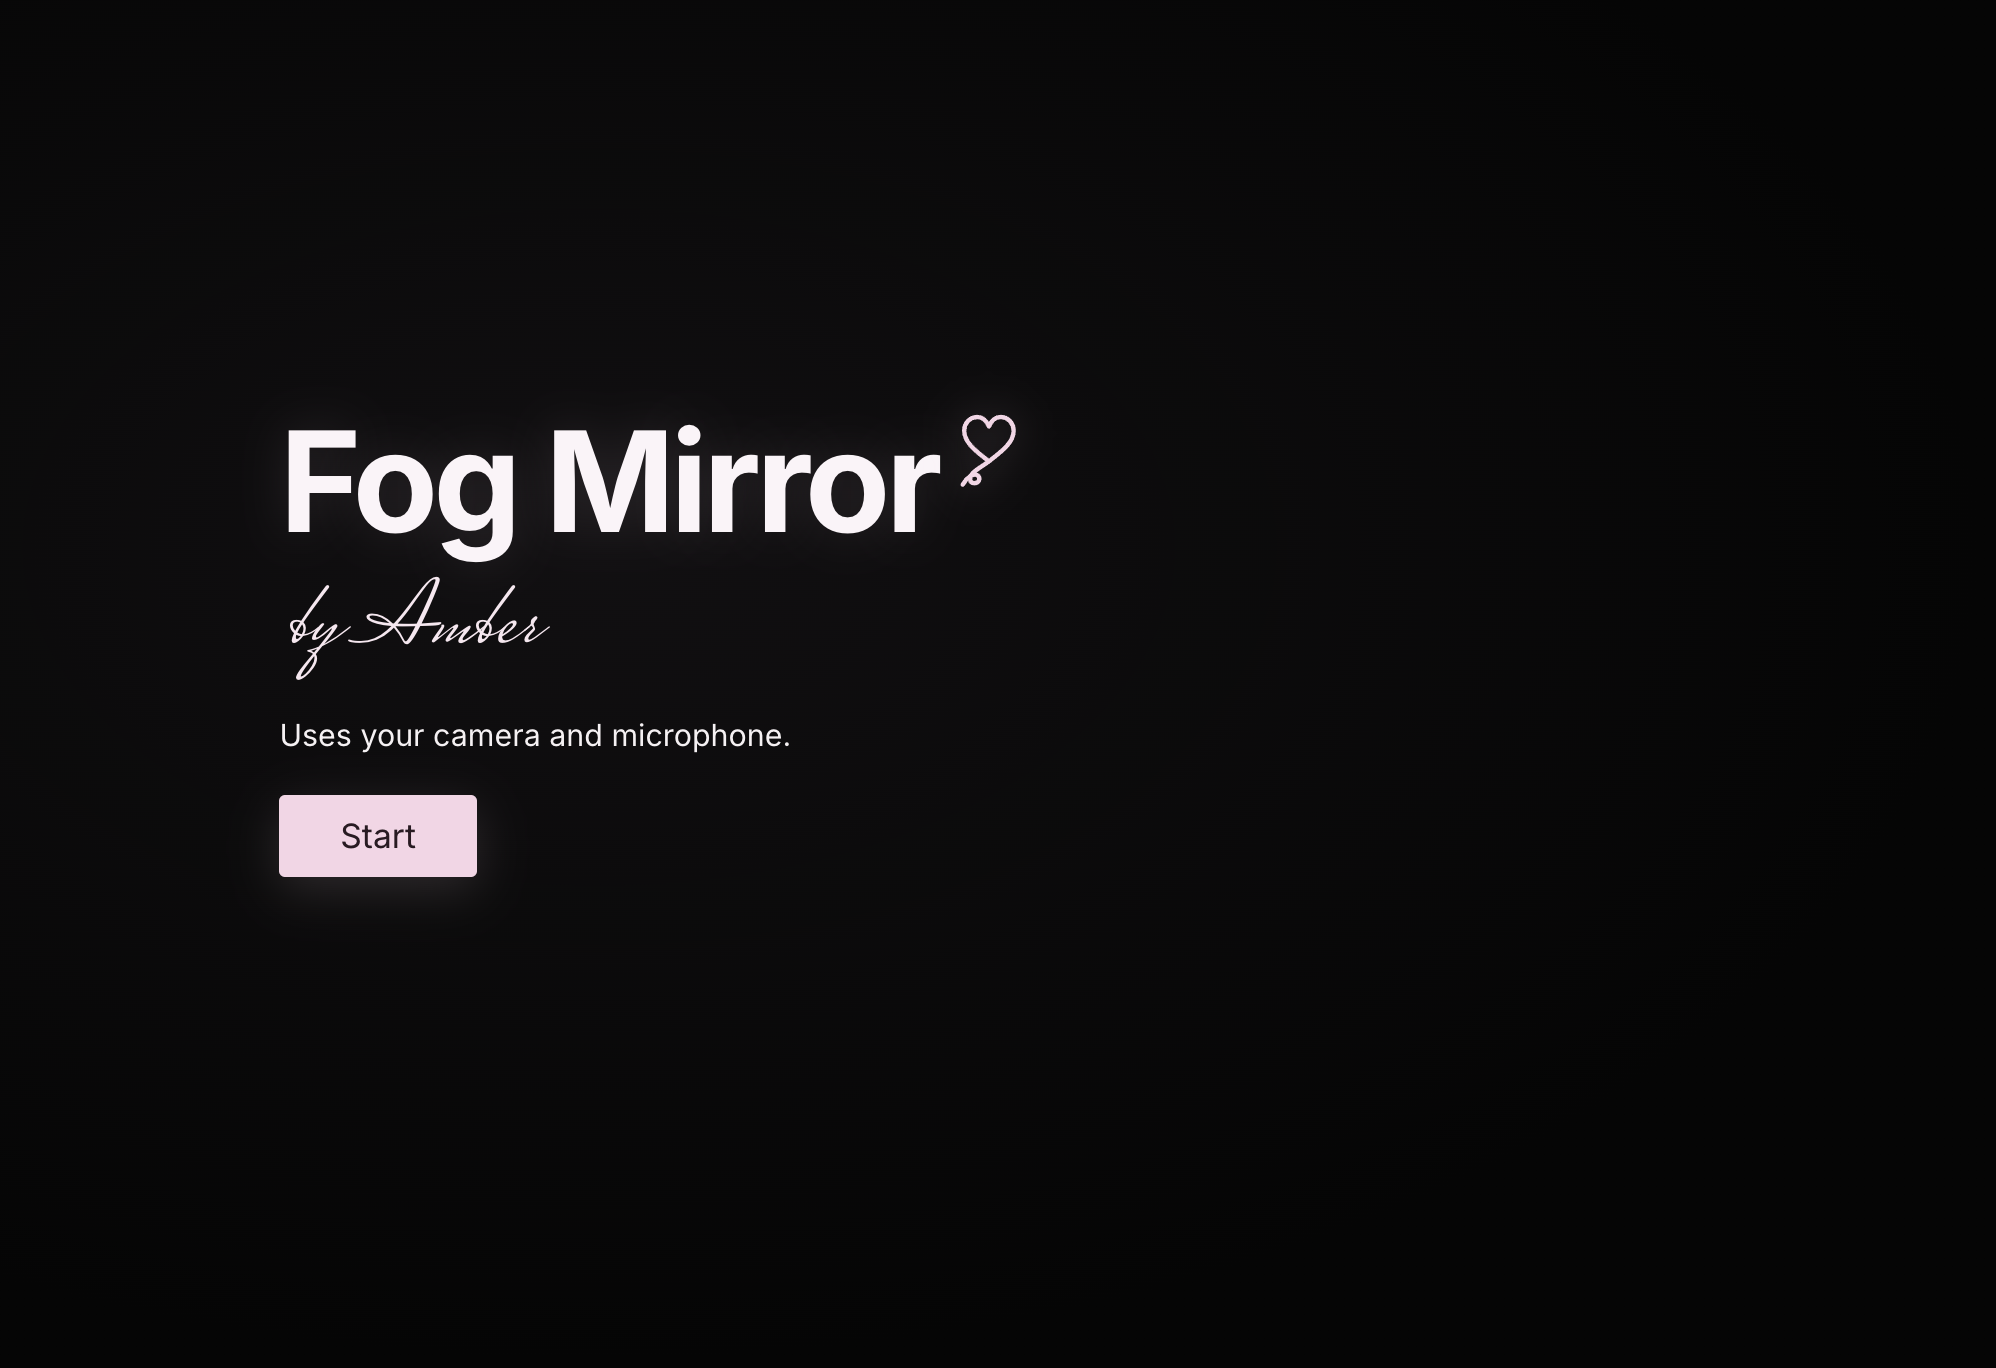
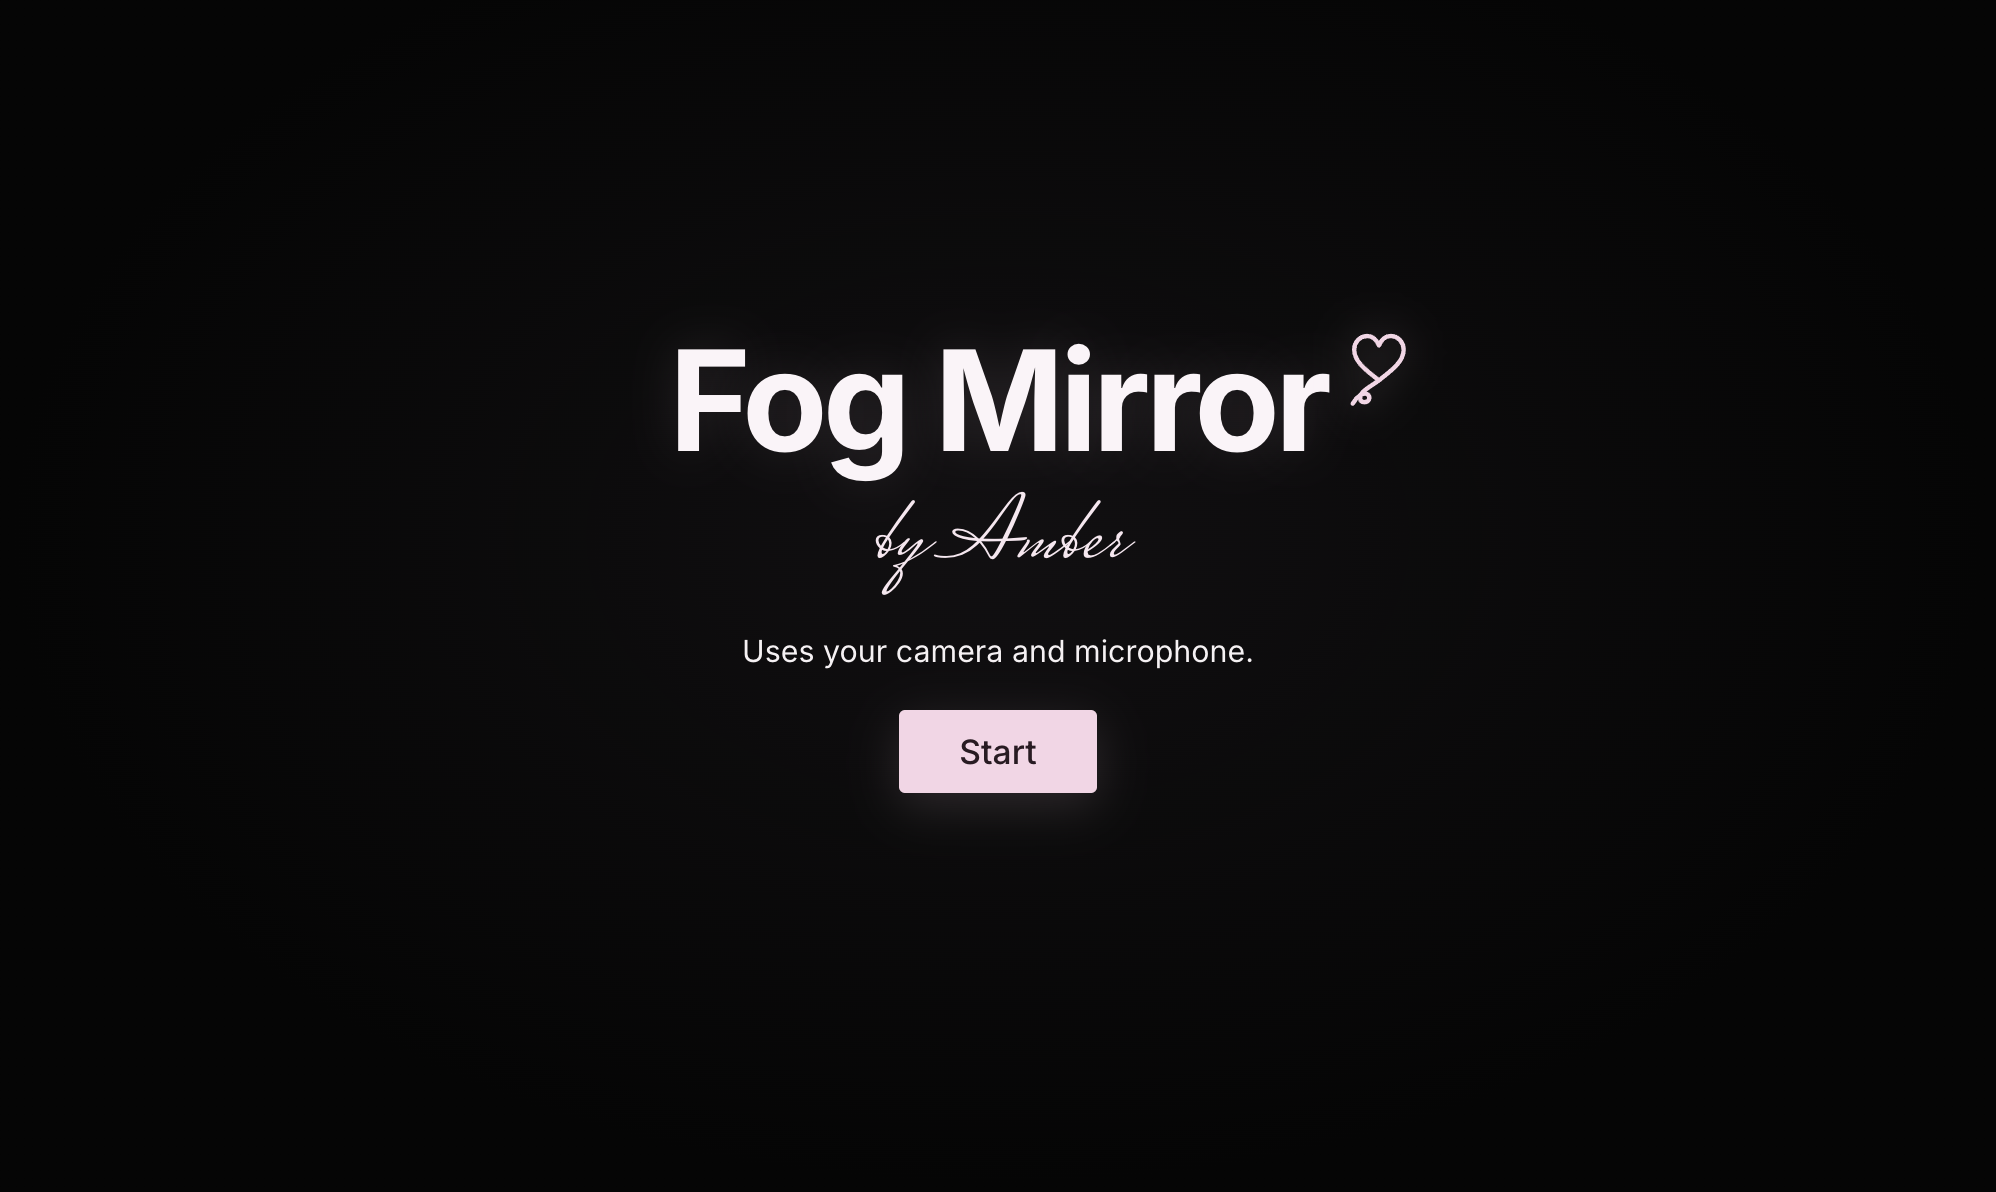
Use updated landing screenshot in README.

Changed region(s): [[0.1242, 0.2794, 0.7144, 0.4966], [0.1242, 0.5277, 0.6212, 0.6518], [0.4349, 0.5898, 0.5591, 0.6829]]

diff --git a/README.md b/README.md
@@ -7,7 +7,7 @@
 
 An interactive web app that turns your webcam into a fogged-up mirror. Draw through the fog with your fingers, wipe it away with your fist, and blow to fog it back up.
 
-![Fog Mirror landing page](docs/landing.png)
+![Fog Mirror start screen](docs/landing.png)
 
 ## Try it
 
@@ -28,6 +28,7 @@ No download or setup needed.
 
 - Use the **Brush** slider at the bottom to make your lines thicker or thinner.
 - Click the **camera button** in the top-right corner to save a photo.
+- The **breath meter** in the top-left corner fills up and turns pink while you're blowing.
 - Two people can play at the same time.
 
 **Tips:** Stand about an arm's length from the camera in a bright room. When blowing, blow one long, steady breath toward your computer.
@@ -42,17 +43,19 @@ No download or setup needed.
 
 Everything runs in your browser. Your camera and microphone are never recorded or uploaded.
 
-## For developers
+## For Developers
 
 To run Fog Mirror on your own computer:
 
 ```bash
 git clone https://github.com/amberouyang/fog-mirror.git
 cd fog-mirror
-python3 -m http.server 8000
+python3 -m http.server 8000i
 ```
 
 Then open [http://localhost:8000](http://localhost:8000). Browsers only allow camera access on `localhost` or over HTTPS, so use a local server instead of opening `index.html` directly.
+
+There's no build step. MediaPipe, the tracking models, and the fonts are all included in the repo (`vendor/`, `models/`, and `fonts/`), so the app doesn't depend on any outside services.
 
 **How it works:** The mirrored camera image is blurred and tinted each frame, and a density mask controls where fog appears. [MediaPipe Hand Landmarker](https://ai.google.dev/edge/mediapipe/solutions/vision/hand_landmarker) detects pinches and fists, and [MediaPipe Face Landmarker](https://ai.google.dev/edge/mediapipe/solutions/vision/face_landmarker) with the Web Audio API detects blowing.
 
